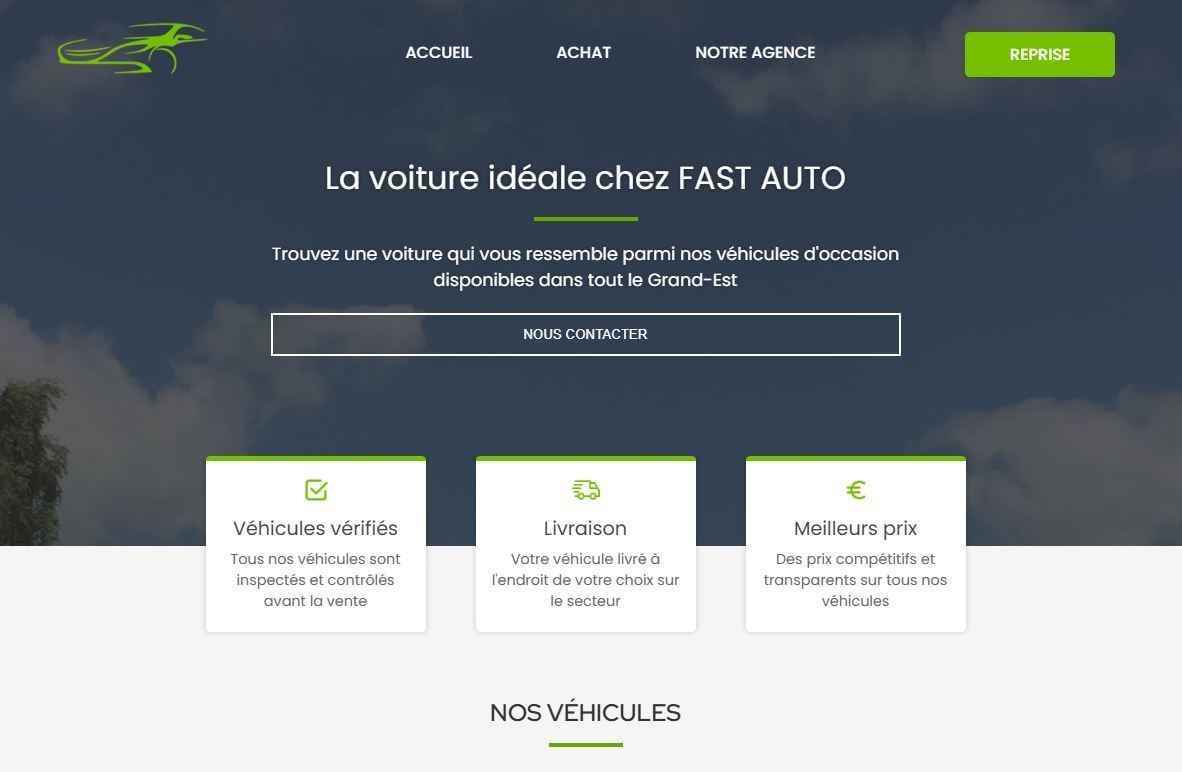
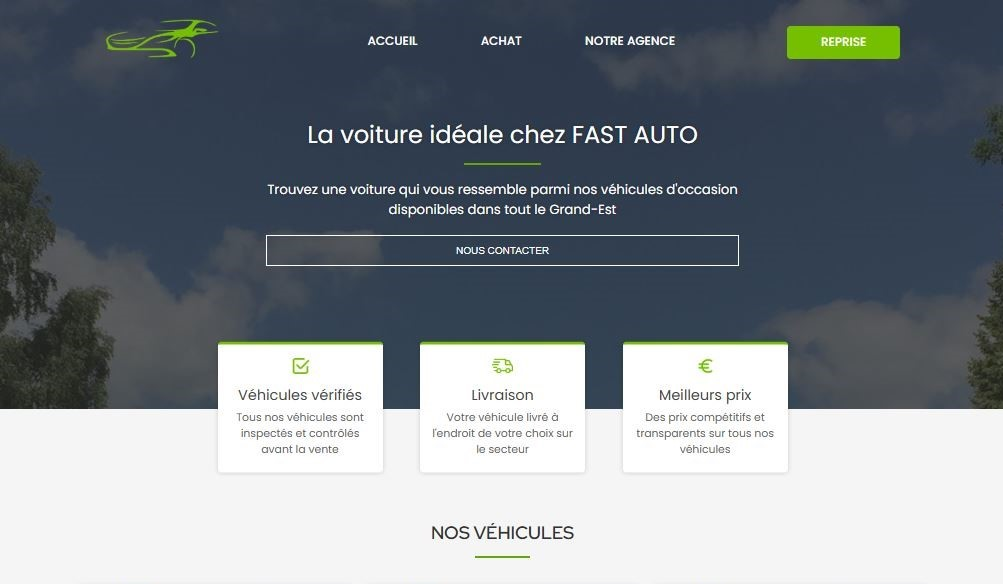
chore: ajout d'un projet dans la section projects

diff --git a/index.html b/index.html
@@ -186,7 +186,7 @@
         <span>Mes projets</span>
         <div class="projects__container">
             <div class="projects__project">
-                <img src="img/fastauto2.JPG" alt="">
+                <img src="img/fastauto.JPG" alt="">
                 <div class="projects__project-overlay">
                     <div class="projects__project-content">
                         <span class="projects__project-title">Fast auto</span>
@@ -197,10 +197,24 @@
                             <span>PHP</span>
                             <span>MySQL</span>
                         </div>
-                        <a href="" class="projects__project-link">Voir le site <img src="img/icon/arrow-icon.png" class="icon" alt="icone-fleche"></a>
+                        <a href="" target="_blank" title="Voir le site - Nouvel onglet" class="projects__project-link">Voir le site <img src="img/icon/arrow-icon.png" class="icon" alt="icone-fleche"></a>
                     </div>
                 </div>
             </div>
+            <div class="projects__project">
+                <img src="img/exercice-html-css.JPG" alt="">
+                <div class="projects__project-overlay">
+                    <div class="projects__project-content">
+                        <span class="projects__project-title">Exercice d'intégration web</span>
+                        <p class="projects__project-description">Exercice d'intégration web réalisé dans le cadre d'un cours HTML/CSS.</p>
+                        <div class="projects__project-technologies">
+                            <span>HTML/CSS</span>
+                        </div>
+                        <a href="https://sbakhti00.github.io/exercice-html-css/" target="_blank" title="Voir le site Exercice HTML/CSS - Nouvel onglet" class="projects__project-link">Voir le site <img src="img/icon/arrow-icon.png" class="icon" alt="icone-fleche"></a>
+                    </div>
+                </div>
+            </div>
+        </div>
     </section>
     <footer id="footer">
         <div class="footer__container container">

diff --git a/style.css b/style.css
@@ -56,7 +56,7 @@ img:not(.icon) {
     height: 100%;
     width: 100%;
     object-fit: cover;
-    object-position: top;
+    object-position: center;
 }
 
 .title {
@@ -180,7 +180,7 @@ header {
     margin: auto;
     text-align: center;
     height: 70%;
-    padding: 20px;
+    padding: 1rem;
 }
 
 .hero__container .hero__container_title {
